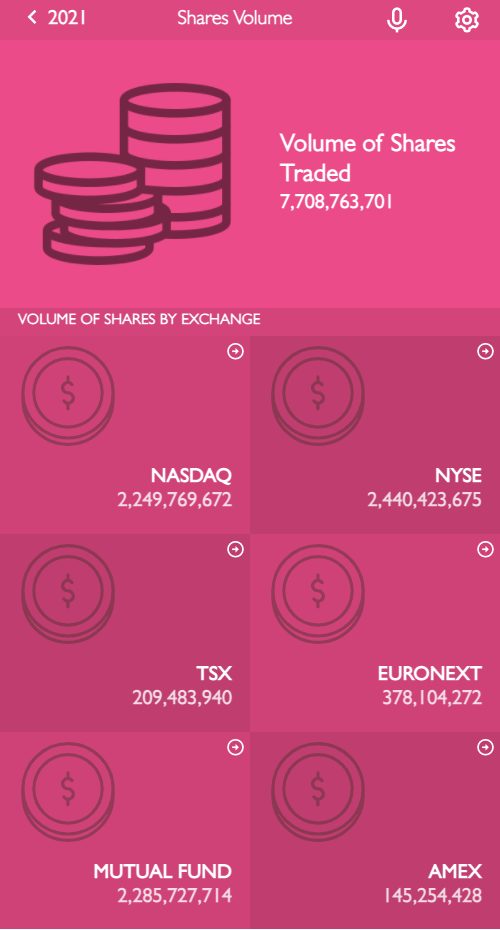
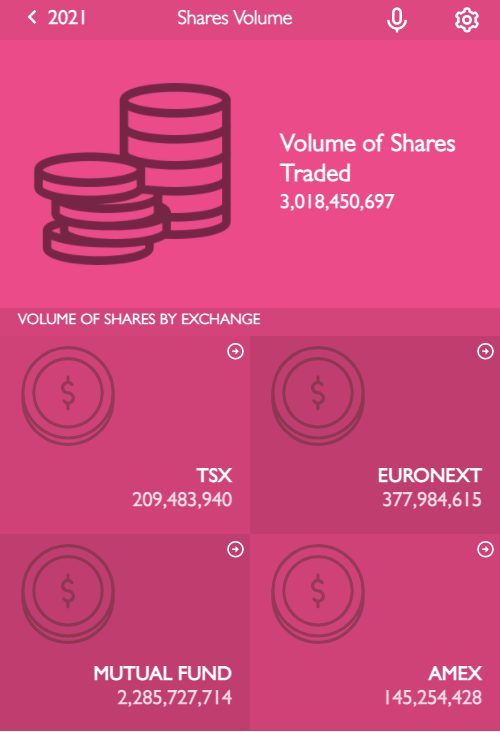
Update screen shot

diff --git a/src/utils/utils.js b/src/utils/utils.js
@@ -4,7 +4,7 @@ const BASE_URI = 'https://financialmodelingprep.com/api/v3/stock-screener?market
 const KEY = '76109e81ecec8a4c42637f7a2cead33e';
 
 export const fetchSymbols = async () => {
-  const EXCHANGES = ['NYSE', 'NASDAQ', 'AMEX', 'TSX', 'MUTUAL_FUND', 'EURONEXT'].join(',');
+  const EXCHANGES = ['AMEX', 'TSX', 'MUTUAL_FUND', 'EURONEXT'].join(',');
   const ENDPOINT = `${EXCHANGES}&apikey=${KEY}`;
   const URI = `${BASE_URI}${ENDPOINT}`;
   const response = await get(URI);
